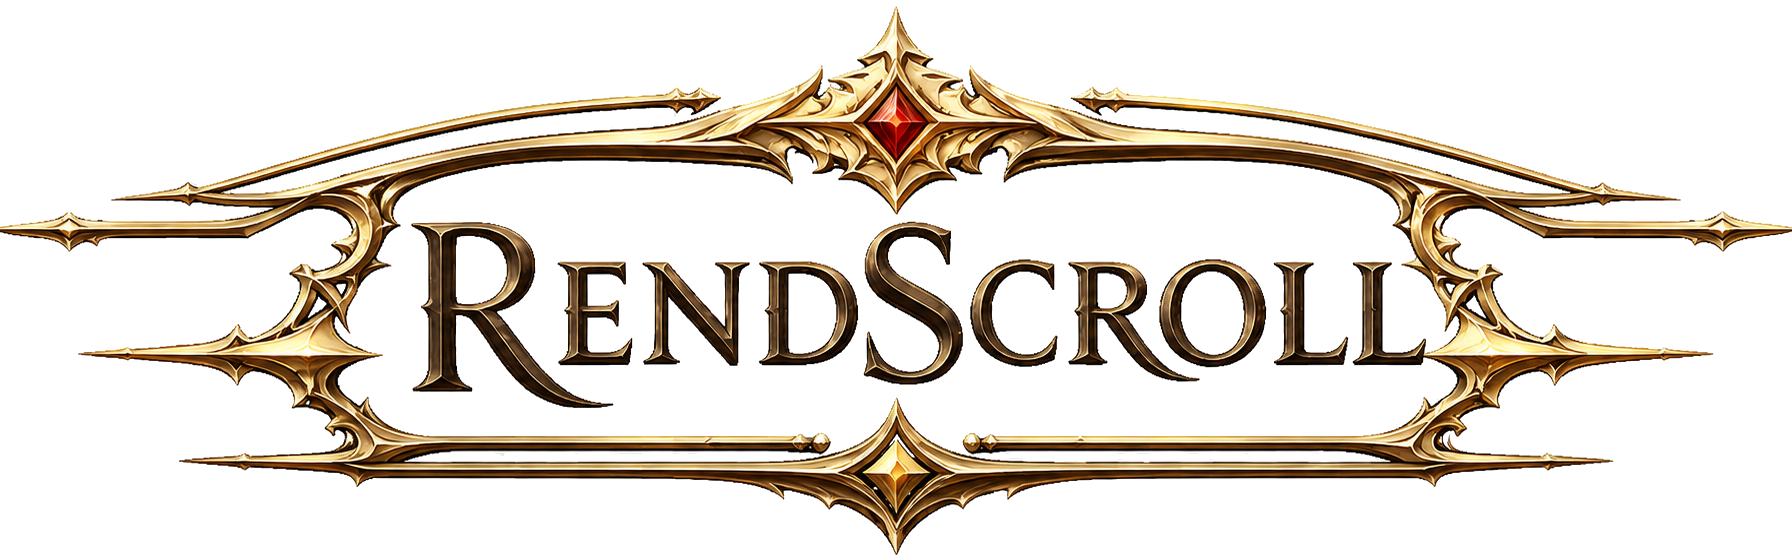
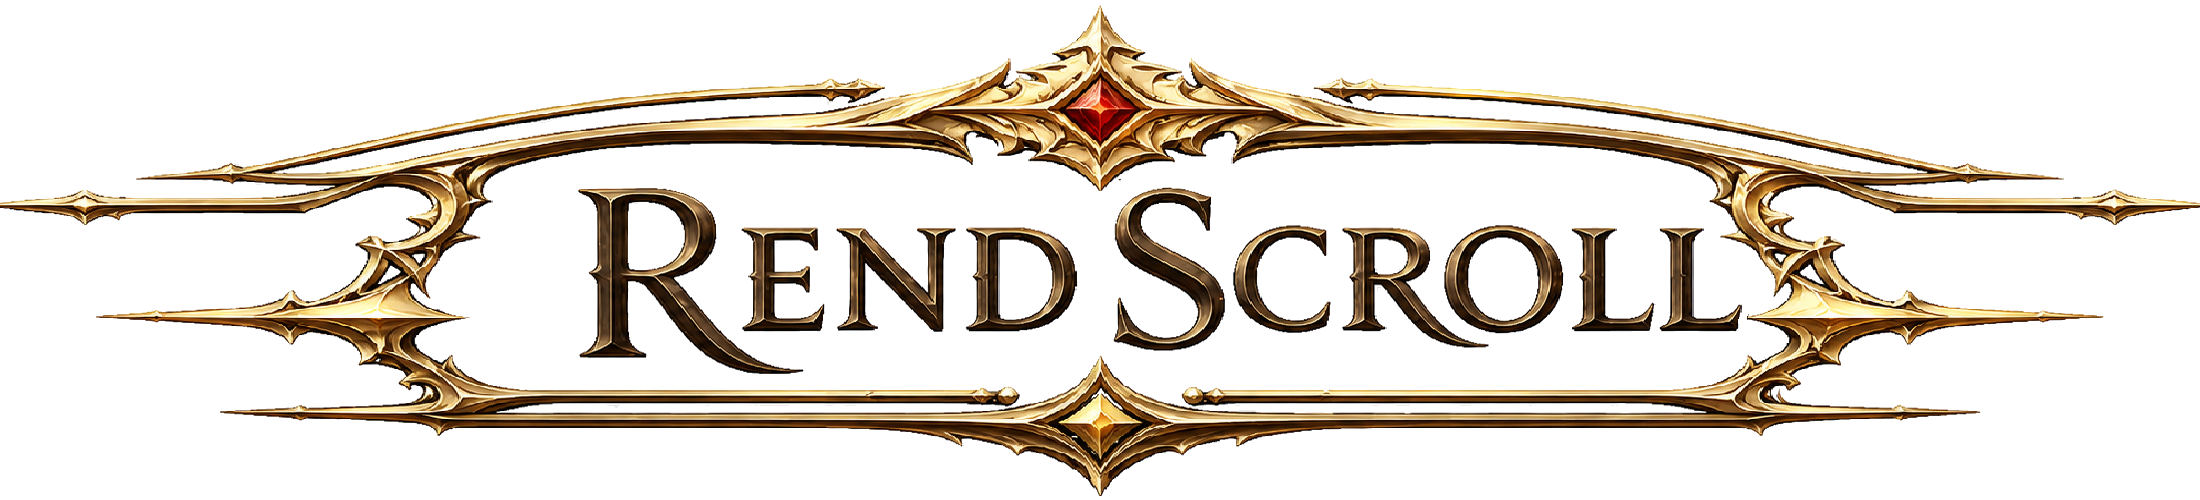
Small UI Changes

Changed region(s): [[0.0, 0.09, 1.0, 0.75], [0.0938, 0.72, 0.9062, 0.96], [0.1562, 0.69, 0.1875, 0.72]]

diff --git a/src/rendererOptions.js b/src/rendererOptions.js
@@ -23,6 +23,7 @@ const RendererOptions = (() => {
   const CURRENT_URL = "options.current.json";
   const SAVE_ENDPOINT = "/__save_options";
   const MAX_IMAGE_BYTES = 2 * 1024 * 1024; // ~2 MB guard for uploaded PNGs
+  const PARCHIMENT_IMAGE_URL = "src/STDImages/parchiment.png";
 
   const SCHEMA = {
     // ---- Reader ----
@@ -96,8 +97,9 @@ const RendererOptions = (() => {
       ],
     },
     pageBackground: {
-      section: "Theme", type: "choice", attr: "pagebg", default: "custom", label: "Page Background",
+      section: "Theme", type: "choice", attr: "pagebg", default: "parchiment", label: "Page Background",
       choices: [
+        { value: "parchiment", label: "Parchiment" },
         { value: "parchment", label: "Parchment" },
         { value: "aged", label: "Aged" },
         { value: "slate", label: "Slate" },
@@ -106,7 +108,7 @@ const RendererOptions = (() => {
       ],
     },
     pageBackgroundImage: {
-      section: "Theme", type: "image", default: "src/STDImages/parchiment.png", label: "Custom Background (PNG)",
+      section: "Theme", type: "image", default: "", label: "Custom Background (PNG)",
     },
   };
 
@@ -193,10 +195,12 @@ const RendererOptions = (() => {
       if (opt.type === "toggle") {
         document.body.classList.toggle(opt.bodyClass, !!state[k]);
       } else if (opt.type === "image") {
-        if (state[k]) document.body.style.setProperty("--page-bg-custom", `url("${state[k]}")`);
+        const image = state.pageBackground === "parchiment" ? PARCHIMENT_IMAGE_URL : state[k];
+        if (image) document.body.style.setProperty("--page-bg-custom", `url("${image}")`);
         else document.body.style.removeProperty("--page-bg-custom");
       } else if (opt.attr) {
-        document.body.setAttribute("data-opt-" + opt.attr, state[k]);
+        const value = k === "pageBackground" && state[k] === "parchiment" ? "custom" : state[k];
+        document.body.setAttribute("data-opt-" + opt.attr, value);
       }
     }
   }
@@ -466,7 +470,9 @@ const RendererOptions = (() => {
     btn.className = "opt-launcher renderer-options-toggle print-hide";
     btn.textContent = "Options ▾";
     btn.addEventListener("click", (e) => { e.stopPropagation(); openModal(); });
-    container.appendChild(btn);
+    const debugToggle = container.querySelector("#rs-debug-toggle");
+    if (debugToggle) container.insertBefore(btn, debugToggle);
+    else container.appendChild(btn);
   }
 
   return { SCHEMA, init, get, set, apply, mount };

diff --git a/src/debug/debugPanel.js b/src/debug/debugPanel.js
@@ -307,9 +307,10 @@
       document.getElementById("sidebar");
     if (!host || document.getElementById("rs-debug-toggle")) return;
 
-    const btn = el("button", "rsd-toggle-btn print-hide", "🐞 Debug");
+    const btn = el("button", "rsd-toggle-btn print-hide", "🐞");
     btn.id = "rs-debug-toggle";
     btn.type = "button";
+    btn.setAttribute("aria-label", "Open debug panel");
     btn.title = "Open the RendScroll parser debug panel";
     btn.addEventListener("click", api.toggle);
     host.appendChild(btn);